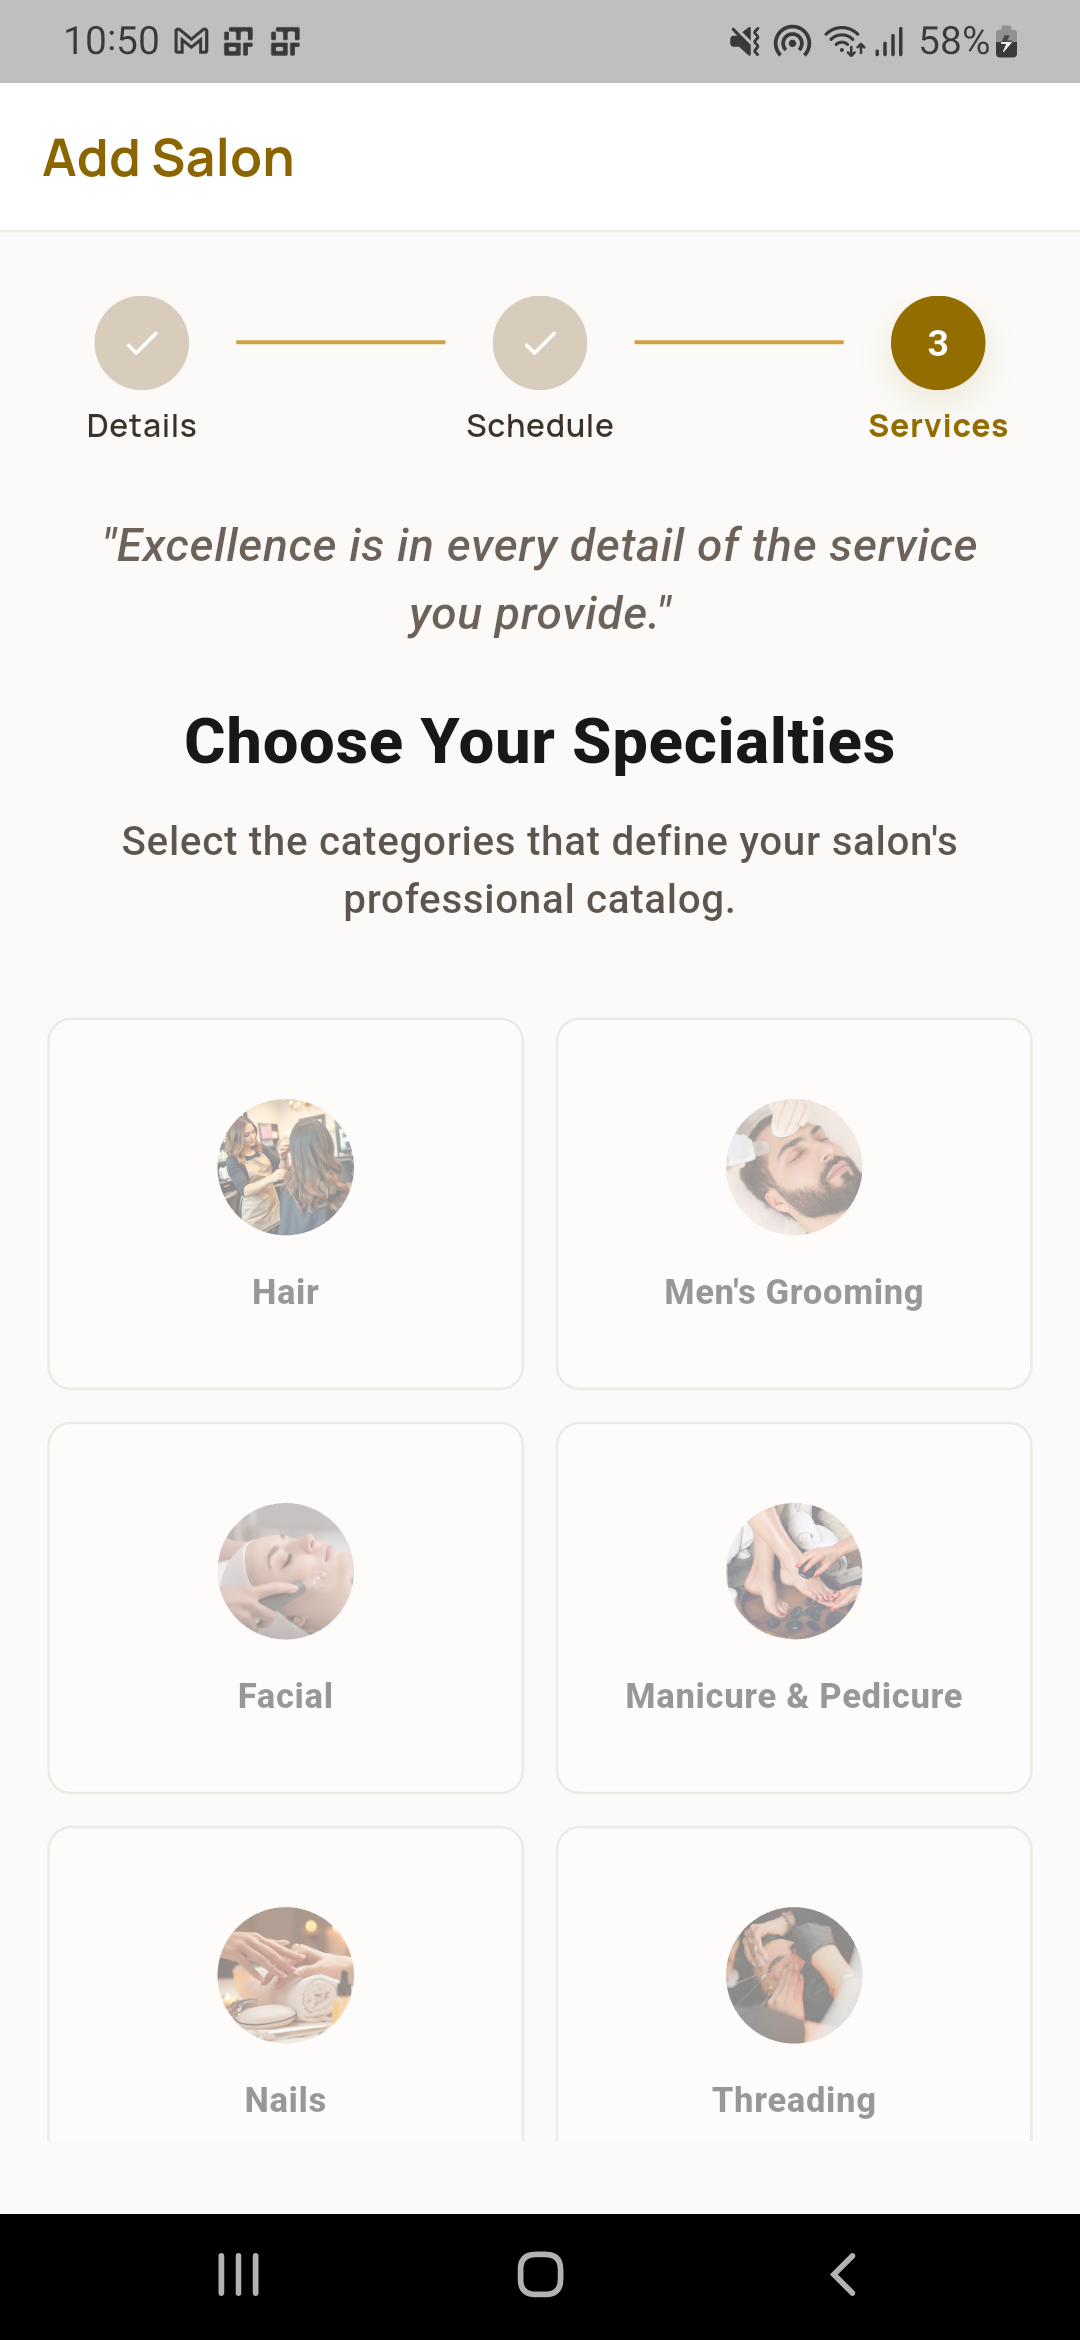
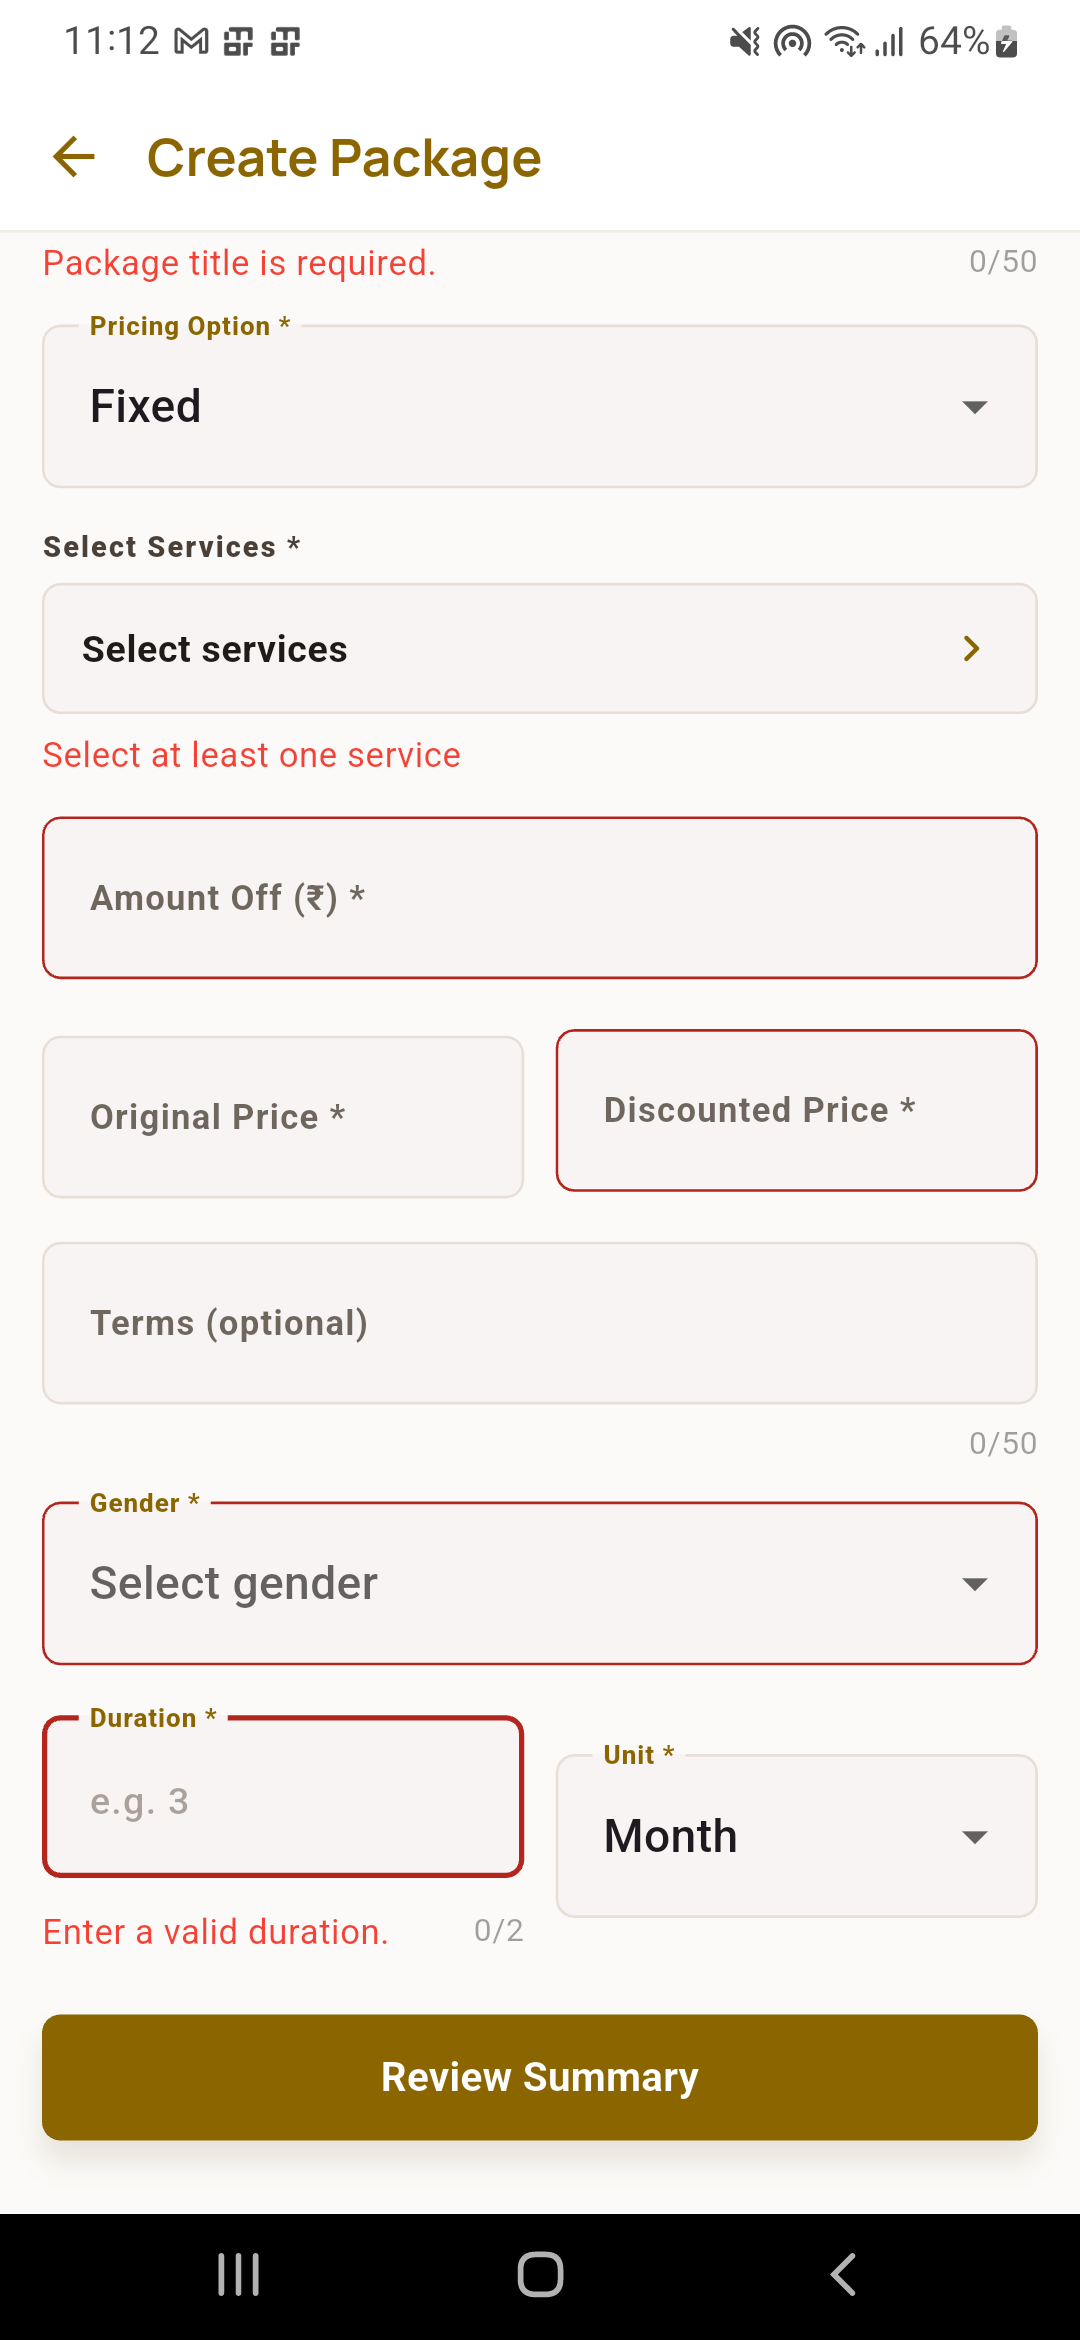
create offer bug fixed

diff --git a/lib/screens/Adddeals.dart b/lib/screens/Adddeals.dart
@@ -807,7 +807,10 @@ class _AddDealsScreenState extends State<AddDealsScreen> {
   String? _vDiscounted() {
     if (_sDiscounted) return null;
 
-    final d = _parseCurrency(discountedPriceController.text);
+    final value = discountedPriceController.text.trim();
+    if (value.isEmpty) return null;
+
+    final d = _parseCurrency(value);
 
     if (d == null || d < 0) {
       return translateText('Discounted price cannot be negative.');
@@ -1292,6 +1295,8 @@ class _AddDealsScreenState extends State<AddDealsScreen> {
     required Widget child,
     String? errorText,
   }) {
+    final hasError = errorText != null && errorText.trim().isNotEmpty;
+
     return Column(
       crossAxisAlignment: CrossAxisAlignment.start,
       children: [
@@ -1301,14 +1306,14 @@ class _AddDealsScreenState extends State<AddDealsScreen> {
           crossAxisAlignment: CrossAxisAlignment.start,
           children: [
             Expanded(
-              child: errorText == null || errorText.trim().isEmpty
-                  ? const SizedBox.shrink()
-                  : Text(
+              child: hasError
+                  ? Text(
                       errorText,
                       style: const TextStyle(color: Colors.red, fontSize: 12),
-                    ),
+                    )
+                  : const SizedBox.shrink(),
             ),
-            const SizedBox(width: 8),
+            const SizedBox(width: 12),
             IgnorePointer(
               child: ValueListenableBuilder<TextEditingValue>(
                 valueListenable: controller,
@@ -1328,6 +1333,27 @@ class _AddDealsScreenState extends State<AddDealsScreen> {
             ),
           ],
         ),
+      ],
+    );
+  }
+
+  Widget _fieldWithBottomError({
+    required Widget child,
+    String? errorText,
+  }) {
+    final hasError = errorText != null && errorText.trim().isNotEmpty;
+
+    return Column(
+      crossAxisAlignment: CrossAxisAlignment.start,
+      children: [
+        child,
+        if (hasError) ...[
+          const SizedBox(height: 6),
+          Text(
+            errorText,
+            style: const TextStyle(color: Colors.red, fontSize: 12),
+          ),
+        ],
       ],
     );
   }
@@ -1773,32 +1799,36 @@ class _AddDealsScreenState extends State<AddDealsScreen> {
         pricingMode == 'Discount' && discountType == 'Percent';
 
     if (showFlatField) {
-      return TextFormField(
-        controller: amountOffController,
-        keyboardType: TextInputType.number,
-        inputFormatters: [
-          FilteringTextInputFormatter.digitsOnly,
-        ],
-        autovalidateMode: _showErrors
-            ? AutovalidateMode.onUserInteraction
-            : AutovalidateMode.disabled,
-        decoration: _decor(
-          label: translateText('Amount Off (₹) *'),
-          hint: translateText('e.g. 100'),
+      return _fieldWithBottomError(
+        errorText: _showErrors ? _vAmountOff(amountOffController.text) : null,
+        child: TextFormField(
+          controller: amountOffController,
+          keyboardType: TextInputType.number,
+          inputFormatters: [
+            FilteringTextInputFormatter.digitsOnly,
+          ],
+          autovalidateMode: _showErrors
+              ? AutovalidateMode.onUserInteraction
+              : AutovalidateMode.disabled,
+          decoration: _decor(
+            label: translateText('Amount Off (₹) *'),
+            hint: translateText('e.g. 100'),
+          ),
+          validator: _vAmountOff,
+          onChanged: (_) {
+            if (!_sAmountOff) {
+              setState(() => _sAmountOff = true);
+            } else {
+              setState(() {});
+            }
+          },
         ),
-        validator: _vAmountOff,
-        onChanged: (_) {
-          if (!_sAmountOff) {
-            setState(() => _sAmountOff = true);
-          } else {
-            setState(() {});
-          }
-        },
       );
     }
 
     if (showPercentField) {
       return Row(
+        crossAxisAlignment: CrossAxisAlignment.start,
         children: [
           Expanded(
             child: _fieldWithBottomCounter(
@@ -1875,6 +1905,7 @@ class _AddDealsScreenState extends State<AddDealsScreen> {
 
   Widget _buildPriceRow() {
     return Row(
+      crossAxisAlignment: CrossAxisAlignment.start,
       children: [
         Expanded(
           child: TextFormField(
@@ -1888,17 +1919,20 @@ class _AddDealsScreenState extends State<AddDealsScreen> {
         ),
         const SizedBox(width: 12),
         Expanded(
-          child: TextFormField(
-            controller: discountedPriceController,
-            readOnly: true,
-            autovalidateMode: _showErrors
-                ? AutovalidateMode.always
-                : AutovalidateMode.disabled,
-            decoration: _decor(
-              label: translateText('Discounted Price *'),
-              hint: translateText('0'),
+          child: _fieldWithBottomError(
+            errorText: _showErrors ? _vDiscounted() : null,
+            child: TextFormField(
+              controller: discountedPriceController,
+              readOnly: true,
+              autovalidateMode: _showErrors
+                  ? AutovalidateMode.always
+                  : AutovalidateMode.disabled,
+              decoration: _decor(
+                label: translateText('Discounted Price *'),
+                hint: translateText('0'),
+              ),
+              validator: (_) => _vDiscounted(),
             ),
-            validator: (_) => _vDiscounted(),
           ),
         ),
       ],
@@ -1942,35 +1976,40 @@ class _AddDealsScreenState extends State<AddDealsScreen> {
 
     return Column(
       children: [
-        DropdownButtonFormField<String>(
-          value: packageGender,
-          autovalidateMode:
-              _showErrors ? AutovalidateMode.always : AutovalidateMode.disabled,
-          items: packageGenderOptions
-              .map(
-                (gender) => DropdownMenuItem(
-                  value: gender,
-                  child: Text(
-                    translateText(
-                      gender == 'OTHERS'
-                          ? 'Others'
-                          : gender[0] + gender.substring(1).toLowerCase(),
+        _fieldWithBottomError(
+          errorText: _showErrors ? _vPackageGender() : null,
+          child: DropdownButtonFormField<String>(
+            value: packageGender,
+            autovalidateMode: _showErrors
+                ? AutovalidateMode.always
+                : AutovalidateMode.disabled,
+            items: packageGenderOptions
+                .map(
+                  (gender) => DropdownMenuItem(
+                    value: gender,
+                    child: Text(
+                      translateText(
+                        gender == 'OTHERS'
+                            ? 'Others'
+                            : gender[0] + gender.substring(1).toLowerCase(),
+                      ),
                     ),
                   ),
-                ),
-              )
-              .toList(),
-          onChanged: (value) {
-            setState(() => packageGender = value);
-          },
-          validator: (_) => _vPackageGender(),
-          decoration: _decor(
-            label: '${translateText('Gender')} *',
-            hint: translateText('Select gender'),
+                )
+                .toList(),
+            onChanged: (value) {
+              setState(() => packageGender = value);
+            },
+            validator: (_) => _vPackageGender(),
+            decoration: _decor(
+              label: '${translateText('Gender')} *',
+              hint: translateText('Select gender'),
+            ),
           ),
         ),
         const SizedBox(height: 14),
         Row(
+          crossAxisAlignment: CrossAxisAlignment.start,
           children: [
             Expanded(
               child: _fieldWithBottomCounter(
@@ -2050,46 +2089,55 @@ class _AddDealsScreenState extends State<AddDealsScreen> {
         ),
         const SizedBox(height: 14),
         Row(
+          crossAxisAlignment: CrossAxisAlignment.start,
           children: [
             Expanded(
-              child: TextFormField(
-                controller: validFromController,
-                readOnly: true,
-                autovalidateMode: _showErrors
-                    ? AutovalidateMode.onUserInteraction
-                    : AutovalidateMode.disabled,
-                decoration: _decor(
-                  label: '${translateText('Start Date')} *',
-                  hint: translateText('Select start date'),
-                  suffix: IconButton(
-                    icon: const Icon(Icons.date_range, color: _dealGold),
-                    onPressed: () =>
-                        _pickDate(validFromController, isFrom: true),
+              child: _fieldWithBottomError(
+                errorText:
+                    _showErrors ? _vValidFrom(validFromController.text) : null,
+                child: TextFormField(
+                  controller: validFromController,
+                  readOnly: true,
+                  autovalidateMode: _showErrors
+                      ? AutovalidateMode.onUserInteraction
+                      : AutovalidateMode.disabled,
+                  decoration: _decor(
+                    label: '${translateText('Start Date')} *',
+                    hint: translateText('Select start date'),
+                    suffix: IconButton(
+                      icon: const Icon(Icons.date_range, color: _dealGold),
+                      onPressed: () =>
+                          _pickDate(validFromController, isFrom: true),
+                    ),
                   ),
+                  validator: _vValidFrom,
+                  onTap: () => _pickDate(validFromController, isFrom: true),
                 ),
-                validator: _vValidFrom,
-                onTap: () => _pickDate(validFromController, isFrom: true),
               ),
             ),
             const SizedBox(width: 12),
             Expanded(
-              child: TextFormField(
-                controller: validTillController,
-                readOnly: true,
-                autovalidateMode: _showErrors
-                    ? AutovalidateMode.onUserInteraction
-                    : AutovalidateMode.disabled,
-                decoration: _decor(
-                  label: '${translateText('End Date')} *',
-                  hint: translateText('Select end date'),
-                  suffix: IconButton(
-                    icon: const Icon(Icons.date_range, color: _dealGold),
-                    onPressed: () =>
-                        _pickDate(validTillController, isFrom: false),
+              child: _fieldWithBottomError(
+                errorText:
+                    _showErrors ? _vValidTill(validTillController.text) : null,
+                child: TextFormField(
+                  controller: validTillController,
+                  readOnly: true,
+                  autovalidateMode: _showErrors
+                      ? AutovalidateMode.onUserInteraction
+                      : AutovalidateMode.disabled,
+                  decoration: _decor(
+                    label: '${translateText('End Date')} *',
+                    hint: translateText('Select end date'),
+                    suffix: IconButton(
+                      icon: const Icon(Icons.date_range, color: _dealGold),
+                      onPressed: () =>
+                          _pickDate(validTillController, isFrom: false),
+                    ),
                   ),
+                  validator: _vValidTill,
+                  onTap: () => _pickDate(validTillController, isFrom: false),
                 ),
-                validator: _vValidTill,
-                onTap: () => _pickDate(validTillController, isFrom: false),
               ),
             ),
           ],